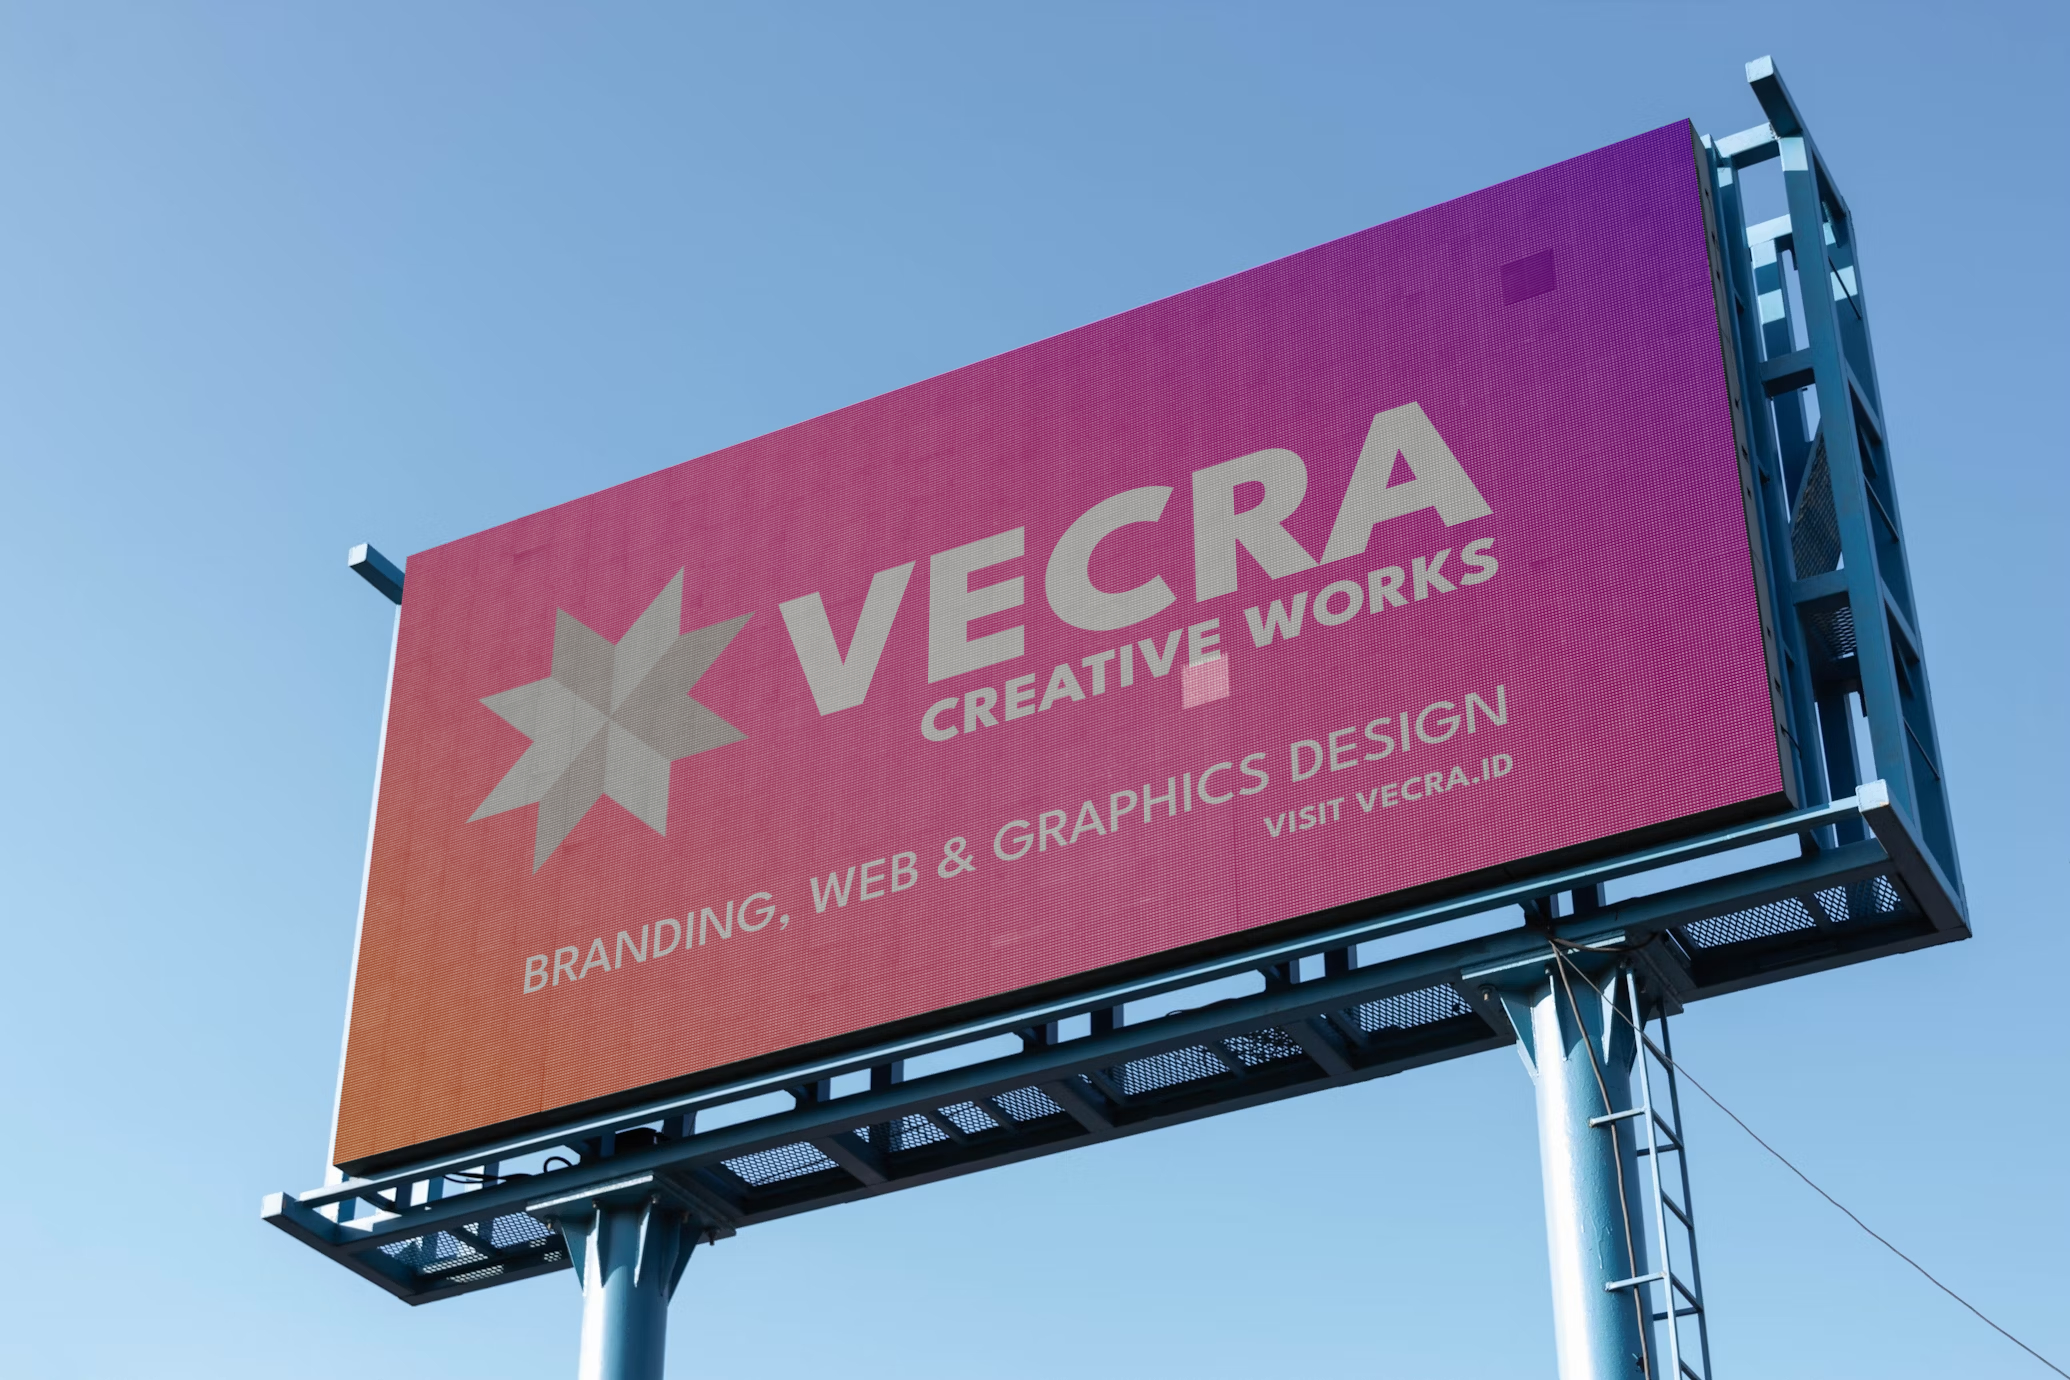
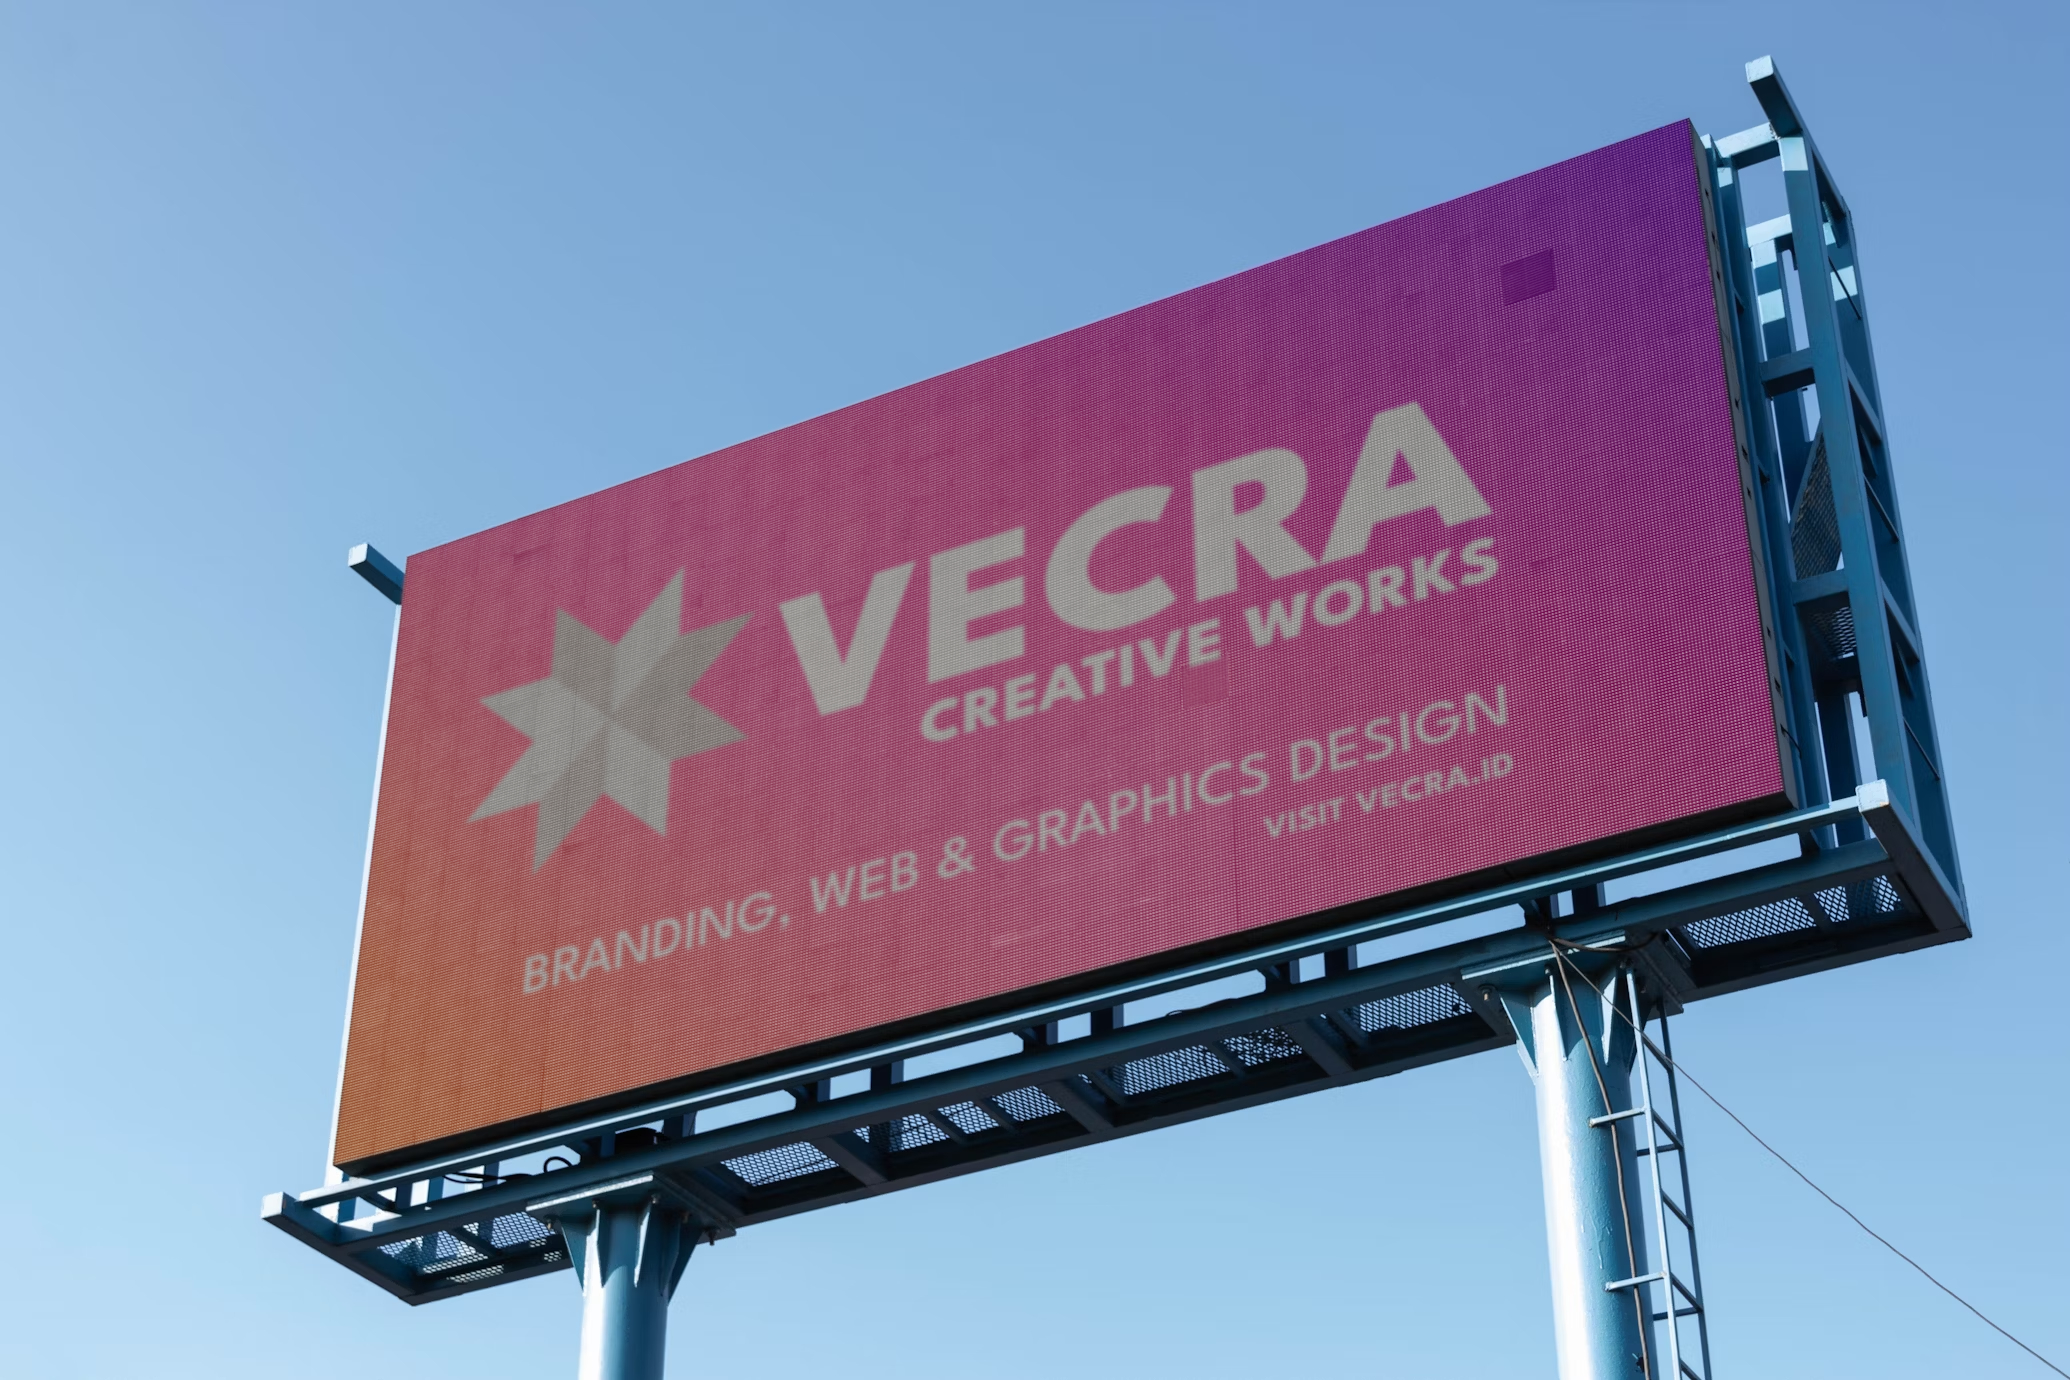
update

diff --git a/index.html b/index.html
@@ -64,7 +64,7 @@
                 <div class="card-showreels">
                     <div class="showreels">
                         <!-- <img src="https://images.unsplash.com/photo-1533069027836-fa937181a8ce?q=80&w=2070&auto=format&fit=crop&ixlib=rb-4.0.3&ixid=M3wxMjA3fDB8MHxwaG90by1wYWdlfHx8fGVufDB8fHx8fA%3D%3D"> -->
-                        <img src="https://github.com/vecra-id/vecra-id.github.io/blob/main/assets/vecra-dooh.jpg?raw=true">
+                        <img src="https://github.com/vecra-id/vecra-id.github.io/blob/main/assets/vecra-dooh-color.jpg?raw=true">
                     </div>
                 </div>
             </div>
